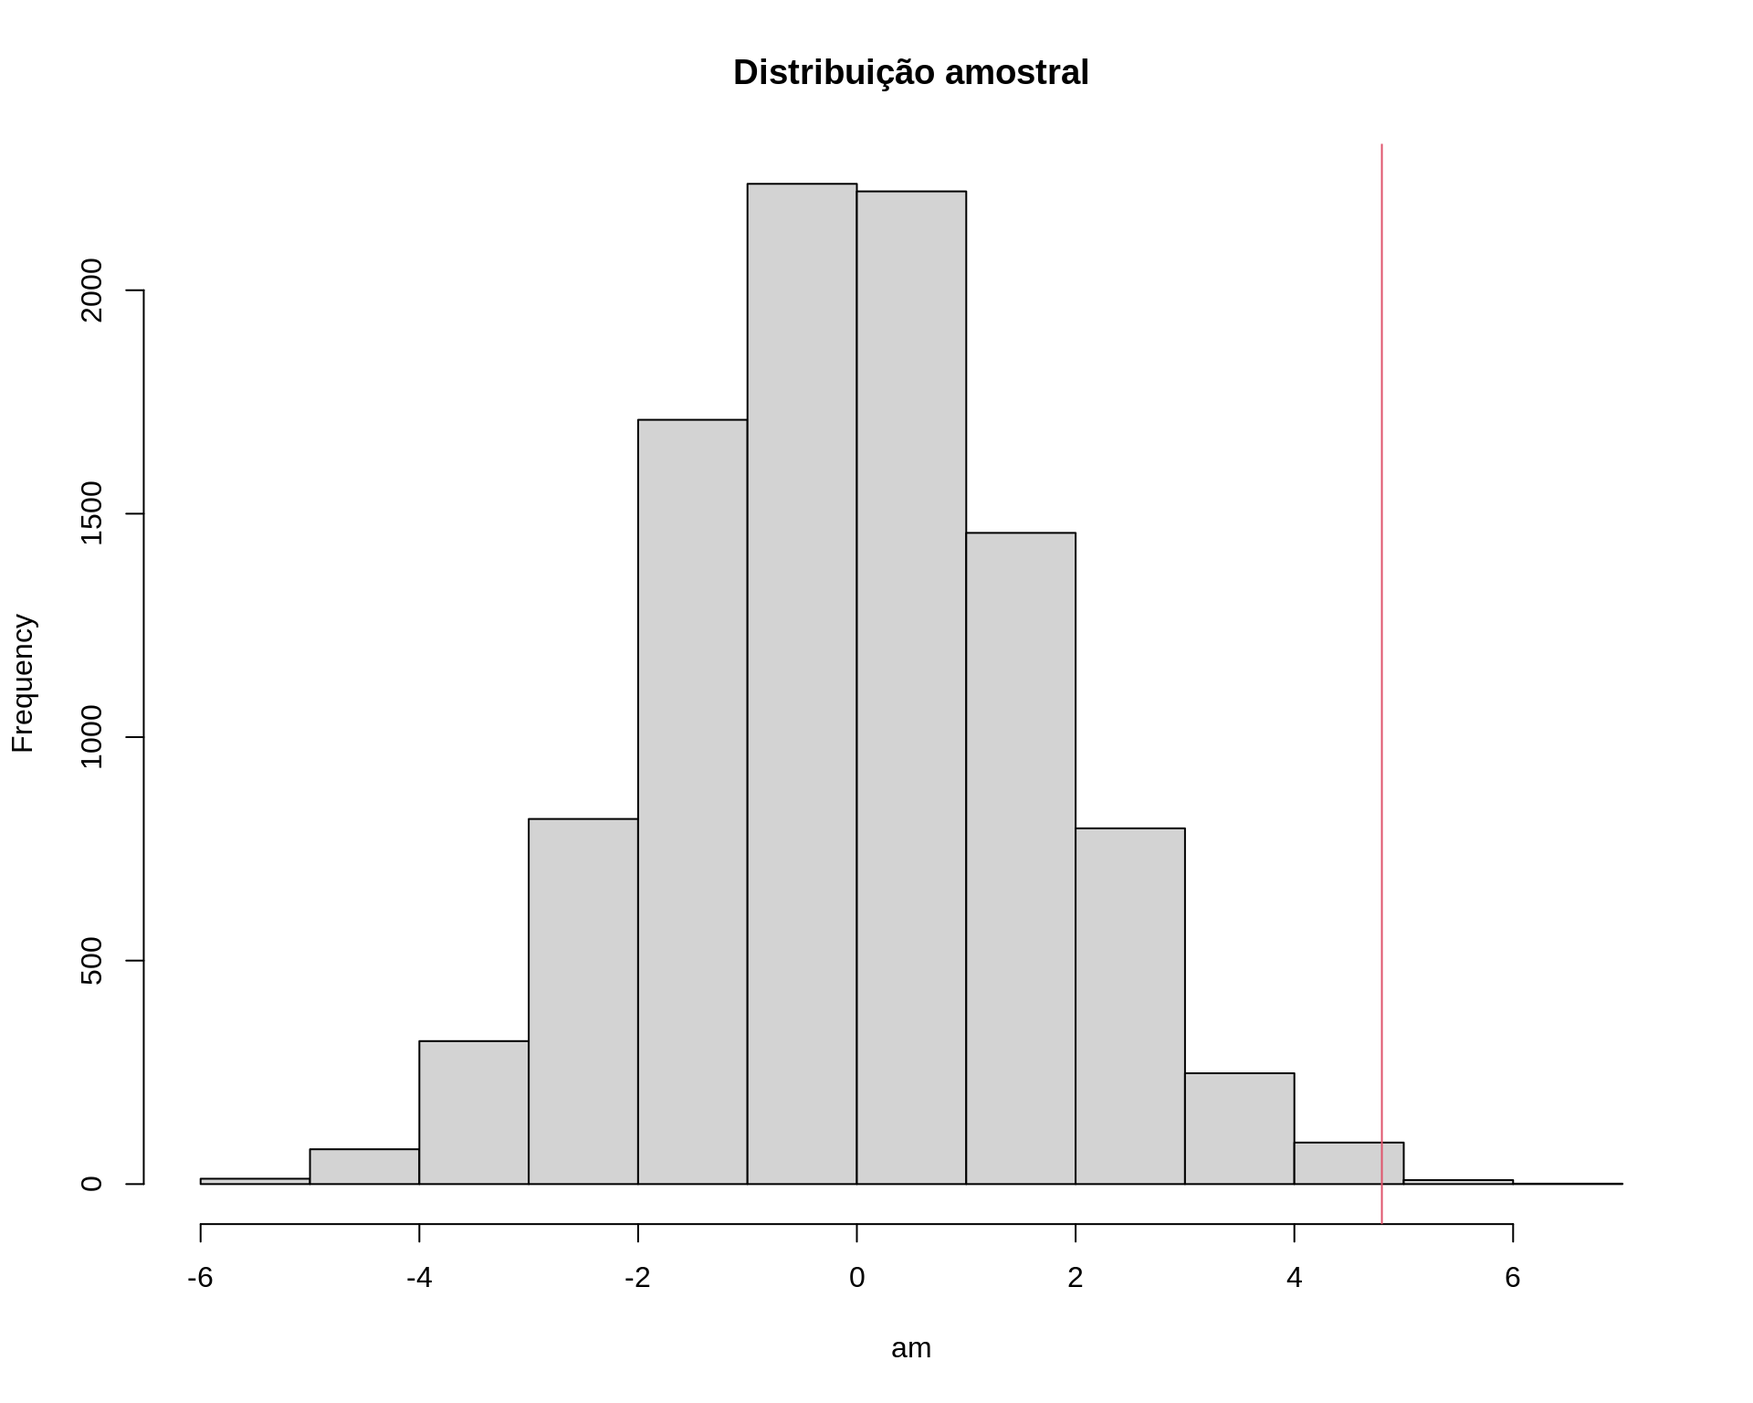
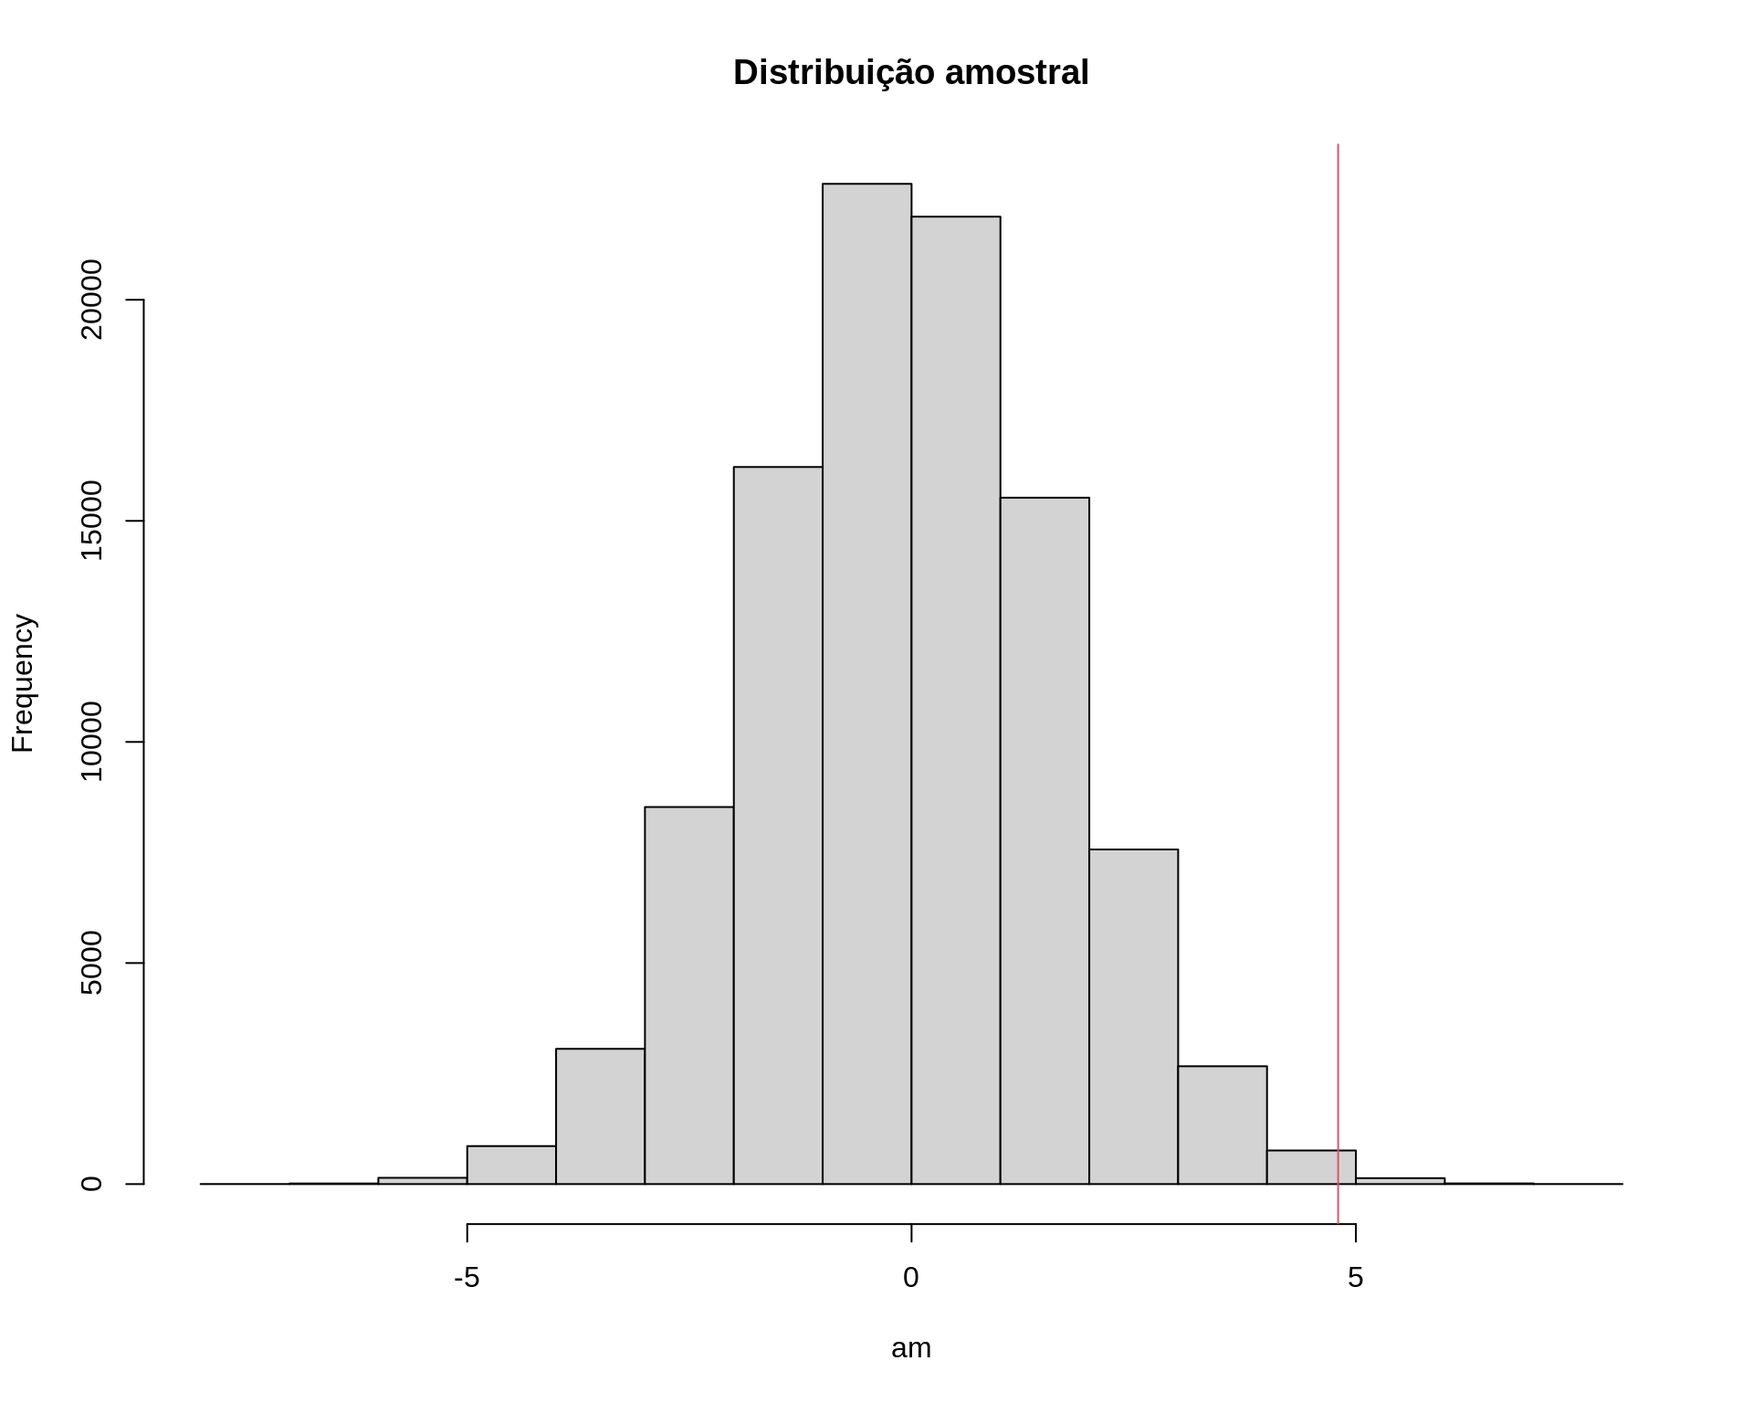
deploy: 6a63a9f9a79bf518cec651b97484bf279a2fdbf0

diff --git a/10_bootstrap.html b/10_bootstrap.html
@@ -566,7 +566,10 @@ t.test(x = machos, y = femeas, alternative = &quot;greater&quot;,
 pt(tcalc, df = n1 + n2 - 2, lower.tail = FALSE)</code></pre>
 <pre><code># [1] 0.001323634</code></pre>
 <pre class="r"><code>## Teste por simulação via Bootstrap
-N &lt;- 10000
+N &lt;- 1e5 # NOTE o aumento no número de simulações
+## Simula direto da distribuição amostral
+library(future.apply) # para um replicate mais eficiente (em paralelo)
+plan(multicore, workers = 4)
 ## Se a hipótese nula é verdadeira, então o comprimento das mandíbulas
 ## de machos e fêmeas são provenientes da mesma poplação, e portanto
 ## podem ser pensados como uma única amostra.
@@ -574,7 +577,7 @@ amostra &lt;- c(machos, femeas)
 ## Amostra COM REPOSIÇÃO os 20 valores, e atribui aleatoriamente 10 para
 ## cada grupo (macho ou fêmea). Se forem de fato da mesma população,
 ## então as diferenças entre as médias devem ser próximas de zero.
-am &lt;- replicate(
+am &lt;- future_replicate(
     N, diff(tapply(sample(amostra, replace = TRUE), da$sexo, mean))
 )
 ## Visualização
@@ -583,7 +586,7 @@ abline(v = med.amostral, col = 2)</code></pre>
 <p><img src="figures/10_bootstrap/unnamed-chunk-3-2.png" width="80%" style="display: block; margin: auto;" /></p>
 <pre class="r"><code>## p-valor empírico
 sum(am &gt;= med.amostral)/N</code></pre>
-<pre><code># [1] 0.0025</code></pre>
+<pre><code># [1] 0.00228</code></pre>
 </div>
 <div id="uma-nota-de-precaução" class="section level3 unnumbered">
 <h3>Uma nota de precaução</h3>
@@ -604,20 +607,20 @@ am &lt;- sample(x, replace = TRUE)
 prop.table(table(am))</code></pre>
 <pre><code># am
 #   1   2   4   5 
-# 0.1 0.3 0.5 0.1</code></pre>
+# 0.1 0.5 0.3 0.1</code></pre>
 <pre class="r"><code>cumsum(prop.table(table(am)))</code></pre>
 <pre><code>#   1   2   4   5 
-# 0.1 0.4 0.9 1.0</code></pre>
+# 0.1 0.6 0.9 1.0</code></pre>
 <pre class="r"><code>## B passos
-B &lt;- 1000
+B &lt;- 1e4
 am &lt;- sample(x, size = B, replace = TRUE)
 prop.table(table(am))</code></pre>
 <pre><code># am
-#     1     2     3     4     5 
-# 0.308 0.303 0.084 0.206 0.099</code></pre>
+#      1      2      3      4      5 
+# 0.2989 0.3035 0.0938 0.2096 0.0942</code></pre>
 <pre class="r"><code>cumsum(prop.table(table(am)))</code></pre>
-<pre><code>#     1     2     3     4     5 
-# 0.308 0.611 0.695 0.901 1.000</code></pre>
+<pre><code>#      1      2      3      4      5 
+# 0.2989 0.6024 0.6962 0.9058 1.0000</code></pre>
 <pre class="r"><code>## Qual o problema então?
 ## Distribuição empírica
 plot(0:5, c(0, prop.table(table(am))), type = &quot;h&quot;)
@@ -655,7 +658,7 @@ str(law82)</code></pre>
 <pre class="r"><code>cor(law82$LSAT, law82$GPA)</code></pre>
 <pre><code># [1] 0.7599979</code></pre>
 <pre class="r"><code>## Definições
-B &lt;- 200
+B &lt;- 2000
 n &lt;- nrow(law)
 R &lt;- numeric(B)
 
@@ -669,11 +672,14 @@ for (b in 1:B) {
 
 ## Resultado
 mean(R)</code></pre>
-<pre><code># [1] 0.7722927</code></pre>
+<pre><code># [1] 0.7709778</code></pre>
 <pre class="r"><code>(se.R &lt;- sd(R))</code></pre>
-<pre><code># [1] 0.132016</code></pre>
+<pre><code># [1] 0.1368193</code></pre>
 <pre class="r"><code>hist(R)</code></pre>
 <p><img src="figures/10_bootstrap/unnamed-chunk-5-3.png" width="80%" style="display: block; margin: auto;" /></p>
+<pre class="r"><code>## Viẽs
+mean(R) - cor(law$LSAT, law$GPA)</code></pre>
+<pre><code># [1] -0.005396721</code></pre>
 <pre class="r"><code>## Usando a função boot::boot()
 
 ## Define a função que calcula a estatística de interesse
@@ -700,19 +706,19 @@ obj</code></pre>
 # 
 # Bootstrap Statistics :
 #      original       bias    std. error
-# t1* 0.7763745 -0.004350115   0.1331296</code></pre>
+# t1* 0.7763745 -0.001896919   0.1359209</code></pre>
 <pre class="r"><code>str(obj)</code></pre>
 <pre><code># List of 11
 #  $ t0       : num 0.776
-#  $ t        : num [1:2000, 1] 0.926 0.698 0.642 0.586 0.8 ...
+#  $ t        : num [1:2000, 1] 0.848 0.801 0.763 0.855 0.75 ...
 #  $ R        : num 2000
 #  $ data     :&#39;data.frame&#39;:    15 obs. of  2 variables:
 #   ..$ LSAT: num [1:15] 576 635 558 578 666 580 555 661 651 605 ...
 #   ..$ GPA : num [1:15] 3.39 3.3 2.81 3.03 3.44 3.07 3 3.43 3.36 3.13 ...
-#  $ seed     : int [1:626] 10403 432 1781087344 386800285 1300146352 -1043896737 -961725389 1610237524 1487280467 -2089005861 ...
+#  $ seed     : int [1:626] 10403 67 374337935 -66916328 796352990 -1344538218 7326455 801261936 -841320945 1823181309 ...
 #  $ statistic:function (x, i)  
 #   ..- attr(*, &quot;srcref&quot;)= &#39;srcref&#39; int [1:8] 4 6 6 1 6 1 4 6
-#   .. ..- attr(*, &quot;srcfile&quot;)=Classes &#39;srcfilecopy&#39;, &#39;srcfile&#39; &lt;environment: 0x55f65203bc40&gt; 
+#   .. ..- attr(*, &quot;srcfile&quot;)=Classes &#39;srcfilecopy&#39;, &#39;srcfile&#39; &lt;environment: 0x55a56d026020&gt; 
 #  $ sim      : chr &quot;ordinary&quot;
 #  $ call     : language boot(data = law, statistic = r, R = 2000)
 #  $ stype    : chr &quot;i&quot;
@@ -725,9 +731,12 @@ obj</code></pre>
 <pre class="r"><code>## Acessa os valores calculados
 y &lt;- as.vector(obj$t)
 mean(y)</code></pre>
-<pre><code># [1] 0.7720244</code></pre>
+<pre><code># [1] 0.7744776</code></pre>
 <pre class="r"><code>sd(y)</code></pre>
-<pre><code># [1] 0.1331296</code></pre>
+<pre><code># [1] 0.1359209</code></pre>
+<pre class="r"><code>## Viẽs
+mean(y) - cor(law$LSAT, law$GPA)</code></pre>
+<pre><code># [1] -0.001896919</code></pre>
 <pre class="r"><code>## Usando a função bootstrap::bootstrap()
 
 ## Define a função que calcula a estatística
@@ -738,10 +747,20 @@ r &lt;- function(x, xdata) {
 ## Procedimento
 n &lt;- nrow(law)
 obj2 &lt;- bootstrap(x = 1:n, nboot = 2000, theta = r, law)
-mean(obj2$thetastar)</code></pre>
-<pre><code># [1] 0.7729704</code></pre>
+str(obj2)</code></pre>
+<pre><code># List of 5
+#  $ thetastar     : num [1:2000] 0.689 0.545 0.775 0.719 0.614 ...
+#  $ func.thetastar: NULL
+#  $ jack.boot.val : NULL
+#  $ jack.boot.se  : NULL
+#  $ call          : language bootstrap(x = 1:n, nboot = 2000, theta = r, law)</code></pre>
+<pre class="r"><code>mean(obj2$thetastar)</code></pre>
+<pre><code># [1] 0.7691919</code></pre>
 <pre class="r"><code>sd(obj2$thetastar)</code></pre>
-<pre><code># [1] 0.1341259</code></pre>
+<pre><code># [1] 0.1344538</code></pre>
+<pre class="r"><code>## Viẽs
+mean(obj2$thetastar) - cor(law$LSAT, law$GPA)</code></pre>
+<pre><code># [1] -0.007182551</code></pre>
 </div>
 <div id="estimativa-do-viés-via-bootstrap" class="section level1">
 <h1><span class="header-section-number">3</span> Estimativa do viés via bootstrap</h1>
@@ -778,7 +797,7 @@ for (b in 1:B) {
 
 ## Viés
 mean(theta.b) - theta.hat</code></pre>
-<pre><code># [1] -0.003264248</code></pre>
+<pre><code># [1] -0.0004970639</code></pre>
 </div>
 <div id="intervalos-de-confiança-via-bootstrap" class="section level1">
 <h1><span class="header-section-number">4</span> Intervalos de confiança via Bootstrap</h1>
@@ -827,7 +846,7 @@ Z = \frac{\hat{\theta} - \text{E}[\hat{\theta}]}{se(\hat{\theta})}
 <li>Suponha que <span class="math inline">\(\hat{\theta}^{(1)}, \ldots, \hat{\theta}^{B}\)</span> são as estimativas de bootstrap de <span class="math inline">\(\hat{\theta}\)</span></li>
 <li>A partir da distribuição empírica das estimativas, determine os quantis <span class="math inline">\(\alpha/2\)</span> e <span class="math inline">\(1-\alpha/2\)</span> de <span class="math inline">\(\hat{\theta}\)</span></li>
 <li>Portanto o intervalo percentil de bootstrap <span class="math inline">\(100(1-\alpha)\%\)</span> é <span class="math display">\[
-(\hat{\theta}_{\alpha/2}, \hat{\theta}_{1-\alpha/2})
+(\hat{\theta}_{\alpha/2}^{\star}, \hat{\theta}_{1-\alpha/2}^{\star})
 \]</span></li>
 <li>Pode-se mostrar que o intervalo percentil de bootstrap possui vantagens teóricas e maior taxa de cobertura, quando comparado aos intervalos normal e básico</li>
 <li>A função <code>boot::boot.ci()</code> calcula estes três tipos de intervalos</li>
@@ -853,10 +872,13 @@ boot.obj</code></pre>
 # 
 # Bootstrap Statistics :
 #      original       bias    std. error
-# t1* 0.7763745 -0.002348834   0.1330581</code></pre>
+# t1* 0.7763745 -0.008545694   0.1334486</code></pre>
 <pre class="r"><code>## Estatśitica amostral
 boot.obj$t0</code></pre>
 <pre><code># [1] 0.7763745</code></pre>
+<pre class="r"><code>## Viés
+(vies &lt;- mean(boot.obj$t) - boot.obj$t0)</code></pre>
+<pre><code># [1] -0.008545694</code></pre>
 <pre class="r"><code>## Distribuição das estimativas de bootstrap
 plot(boot.obj)</code></pre>
 <p><img src="figures/10_bootstrap/unnamed-chunk-9-1.png" width="80%" style="display: block; margin: auto;" /></p>
@@ -869,7 +891,7 @@ plot(boot.obj)</code></pre>
 # 
 # Intervals : 
 # Level      Normal              Basic              Percentile     
-# 95%   ( 0.5179,  1.0395 )   ( 0.5896,  1.1062 )   ( 0.4465,  0.9631 )  
+# 95%   ( 0.5234,  1.0465 )   ( 0.5859,  1.0971 )   ( 0.4557,  0.9669 )  
 # Calculations and Intervals on Original Scale</code></pre>
 <pre class="r"><code>## Calcule intervalos manualmente
 ## Define intervalo com alpha = 0.05
@@ -879,12 +901,14 @@ alpha &lt;- c(.025, .975)
 (theta.hat &lt;- boot.obj$t0)</code></pre>
 <pre><code># [1] 0.7763745</code></pre>
 <pre class="r"><code>(se.theta &lt;- sd(boot.obj$t))</code></pre>
-<pre><code># [1] 0.1330581</code></pre>
+<pre><code># [1] 0.1334486</code></pre>
 <pre class="r"><code>theta.hat + qnorm(alpha) * se.theta</code></pre>
-<pre><code># [1] 0.5155853 1.0371636</code></pre>
+<pre><code># [1] 0.5148201 1.0379289</code></pre>
 <pre class="r"><code>## Note que é diferente do resultado da função pois a função corrige
 ## pelo viés internamente
-boot.ci(boot.obj, type = &quot;norm&quot;)</code></pre>
+(theta.hat + qnorm(alpha) * se.theta) - vies</code></pre>
+<pre><code># [1] 0.5233658 1.0464746</code></pre>
+<pre class="r"><code>boot.ci(boot.obj, type = &quot;norm&quot;)</code></pre>
 <pre><code># BOOTSTRAP CONFIDENCE INTERVAL CALCULATIONS
 # Based on 2000 bootstrap replicates
 # 
@@ -893,12 +917,12 @@ boot.ci(boot.obj, type = &quot;norm&quot;)</code></pre>
 # 
 # Intervals : 
 # Level      Normal        
-# 95%   ( 0.5179,  1.0395 )  
+# 95%   ( 0.5234,  1.0465 )  
 # Calculations and Intervals on Original Scale</code></pre>
 <pre class="r"><code>## Básico
 2 * theta.hat - quantile(boot.obj$t, probs = rev(alpha), type = 6)</code></pre>
 <pre><code>#     97.5%      2.5% 
-# 0.5896451 1.1062186</code></pre>
+# 0.5858779 1.0970886</code></pre>
 <pre class="r"><code>boot.ci(boot.obj, type = &quot;basic&quot;)</code></pre>
 <pre><code># BOOTSTRAP CONFIDENCE INTERVAL CALCULATIONS
 # Based on 2000 bootstrap replicates
@@ -908,12 +932,12 @@ boot.ci(boot.obj, type = &quot;norm&quot;)</code></pre>
 # 
 # Intervals : 
 # Level      Basic         
-# 95%   ( 0.5896,  1.1062 )  
+# 95%   ( 0.5859,  1.0971 )  
 # Calculations and Intervals on Original Scale</code></pre>
 <pre class="r"><code>## Percentil
 quantile(boot.obj$t, probs = alpha, type = 6)</code></pre>
 <pre><code>#      2.5%     97.5% 
-# 0.4465304 0.9631039</code></pre>
+# 0.4556604 0.9668711</code></pre>
 <pre class="r"><code>boot.ci(boot.obj, type = &quot;perc&quot;)</code></pre>
 <pre><code># BOOTSTRAP CONFIDENCE INTERVAL CALCULATIONS
 # Based on 2000 bootstrap replicates
@@ -923,11 +947,11 @@ quantile(boot.obj$t, probs = alpha, type = 6)</code></pre>
 # 
 # Intervals : 
 # Level     Percentile     
-# 95%   ( 0.4465,  0.9631 )  
+# 95%   ( 0.4557,  0.9669 )  
 # Calculations and Intervals on Original Scale</code></pre>
 <p>Observações:</p>
 <ol style="list-style-type: decimal">
-<li>A função <code>quantile()</code> possui 9 formas diferentes de calcular os quantis, por isso aqui foi escolhido <code>type = 6</code> para ficar mais próximo do que é usado internamente na função <code>boot::boot.ci()</code></li>
+<li>A função <code>quantile()</code> possui 9 formas diferentes de calcular os quantis, por isso aqui foi escolhido <code>type = 6</code> para ficar mais próximo do que é usado internamente na função <code>boot::boot.ci()</code> (veja <code>?quantile</code>)</li>
 <li>O intervalo normal fornecido pela função é corrigido pelo viés (<em>bias corrected</em> ou intervalo BCa)</li>
 <li>A grande diferença entre os limites dos intervalos normal e percentil é que a distribuição amostral da correlação não é normal (veja gráfico acima)
 <ul>
@@ -1026,10 +1050,10 @@ ci &lt;- boot.t.ci(law, statistic = r, B = 2000, R = 200)
 ## Resultados
 ci$CI</code></pre>
 <pre><code>#       2.5%      97.5% 
-# -0.2041483  0.9812997</code></pre>
+# -0.2431553  0.9856186</code></pre>
 <pre class="r"><code>ci$Qt</code></pre>
 <pre><code>#      2.5%     97.5% 
-# -1.569855  7.511420</code></pre>
+# -1.565874  7.629633</code></pre>
 <pre class="r"><code>length(ci$stat)</code></pre>
 <pre><code># [1] 2000</code></pre>
 <pre class="r"><code>length(ci$t.stats)</code></pre>
@@ -1093,11 +1117,11 @@ for (b in 1:B) {
 
 ## Estimativas
 mean(theta.b)</code></pre>
-<pre><code># [1] -0.06407866</code></pre>
+<pre><code># [1] -0.06287142</code></pre>
 <pre class="r"><code>(bias &lt;- mean(theta.b) - theta.hat)</code></pre>
-<pre><code># [1] 0.007227438</code></pre>
+<pre><code># [1] 0.008434677</code></pre>
 <pre class="r"><code>(se &lt;- sd(theta.b))</code></pre>
-<pre><code># [1] 0.1034864</code></pre>
+<pre><code># [1] 0.1011584</code></pre>
 <pre class="r"><code>## Intervalos de confiança para a estimativa
 ## Usando o pacote boot
 theta.boot &lt;- function(dat, ind) {
@@ -1118,8 +1142,8 @@ boot.obj</code></pre>
 # 
 # 
 # Bootstrap Statistics :
-#       original     bias    std. error
-# t1* -0.0713061 0.00984133   0.1030833</code></pre>
+#       original      bias    std. error
+# t1* -0.0713061 0.008436566   0.1025824</code></pre>
 <pre class="r"><code>boot.ci(boot.obj, type = c(&quot;basic&quot;, &quot;norm&quot;, &quot;perc&quot;))</code></pre>
 <pre><code># BOOTSTRAP CONFIDENCE INTERVAL CALCULATIONS
 # Based on 2000 bootstrap replicates
@@ -1129,24 +1153,24 @@ boot.obj</code></pre>
 # 
 # Intervals : 
 # Level      Normal              Basic              Percentile     
-# 95%   (-0.2832,  0.1209 )   (-0.3126,  0.0941 )   (-0.2367,  0.1700 )  
+# 95%   (-0.2808,  0.1213 )   (-0.3045,  0.0914 )   (-0.2340,  0.1619 )  
 # Calculations and Intervals on Original Scale</code></pre>
 <pre class="r"><code>## Intervalo t de bootstrap
 ci &lt;- boot.t.ci(dat, statistic = theta.boot, B = 2000, R = 200)
 ## Resultados
 ci$CI</code></pre>
 <pre><code>#       2.5%      97.5% 
-# -0.2633727  0.4707715</code></pre>
+# -0.2653063  0.4066662</code></pre>
 <pre class="r"><code>ci$Qt</code></pre>
 <pre><code>#      2.5%     97.5% 
-# -5.185837  1.837424</code></pre>
+# -4.627971  1.878408</code></pre>
 <pre class="r"><code>## Distribuições
 par(mfrow = c(1, 2))
 ## Distribuição amostral
 hist(ci$stat)
 ## Distribuição &quot;estudentizada&quot; de referência
 hist(ci$t.stats); abline(v = ci$Qt, col = 2)</code></pre>
-<p><img src="figures/10_bootstrap/unnamed-chunk-13-1.png" width="80%" style="display: block; margin: auto;" /></p>
+<p><img src="figures/10_bootstrap/unnamed-chunk-14-1.png" width="80%" style="display: block; margin: auto;" /></p>
 <pre class="r"><code>par(mfrow = c(1, 1))</code></pre>
 </div>
 </div>

diff --git a/programacao.html b/programacao.html
@@ -778,15 +778,15 @@ st1 &lt;- system.time(
 )
 st1</code></pre>
 <pre><code>#    user  system elapsed 
-#   0.074   0.000   0.075</code></pre>
+#   0.095   0.000   0.095</code></pre>
 <pre class="r"><code>## Tempo de execução usando a regra da reciclagem
 st2 &lt;- system.time(
     y2 &lt;- x^2
 )
 st2</code></pre>
 <pre><code>#    user  system elapsed 
-#   0.002   0.000   0.002</code></pre>
-<p>Olhando o resultado de <code>elapsed</code>, que é o tempo total de execução de uma função medido por <code>system.time()</code>, notamos que usando a regra da reciclagem, o cálculo é aproximadamente 0.075/0.002 = 37.5 vezes mais rápido. Claramente esse é só um exemplo de um cálculo muito simples. Mas em situações mais complexas, a diferença entro o tempo de execução das duas formas pode ser muito maior.</p>
+#   0.003   0.000   0.003</code></pre>
+<p>Olhando o resultado de <code>elapsed</code>, que é o tempo total de execução de uma função medido por <code>system.time()</code>, notamos que usando a regra da reciclagem, o cálculo é aproximadamente 0.095/0.003 = 31.67 vezes mais rápido. Claramente esse é só um exemplo de um cálculo muito simples. Mas em situações mais complexas, a diferença entro o tempo de execução das duas formas pode ser muito maior.</p>
 <div class="panel panel-primary">
 <div class="panel-heading">
 Uma nota de precaução

diff --git a/objetos-classes.html b/objetos-classes.html
@@ -1512,7 +1512,7 @@ class(vec)</code></pre>
 # 
 # function (x, ...) 
 # standardGeneric(&quot;mean&quot;)
-# &lt;environment: 0x55f64fe7da38&gt;
+# &lt;environment: 0x55a566f4e0f0&gt;
 # Methods may be defined for arguments: x
 # Use  showMethods(mean)  for currently available ones.</code></pre>
 <p>Agora veja o código fonte da função <code>mean.default</code>, que é o método específico para vetores numéricos</p>
@@ -1541,7 +1541,7 @@ class(vec)</code></pre>
 #     }
 #     .Internal(mean(x))
 # }
-# &lt;bytecode: 0x55f64b658da0&gt;
+# &lt;bytecode: 0x55a566f95b80&gt;
 # &lt;environment: namespace:base&gt;</code></pre>
 <p>Agora suponha que você ddeseja criar uma função que calcule a média para um objeto de uma classe diferente daquelas previamente definidas. Por exemplo, suponha que você quer que a função <code>mean()</code> retorne a média das linhas de uma matriz.</p>
 <pre class="r"><code>set.seed(1)
@@ -1605,7 +1605,7 @@ class(dl)</code></pre>
 </div>
 <div id="informação-de-sessão" class="section level1">
 <h1><span class="header-section-number">11</span> Informação de Sessão</h1>
-<pre><code># Wednesday, 21 July, 2021, 02:22
+<pre><code># Wednesday, 21 July, 2021, 06:08
 # ----------------------------------------
 # R version 4.1.0 (2021-05-18)
 # Platform: x86_64-pc-linux-gnu (64-bit)

diff --git a/05_RNG_transform.html b/05_RNG_transform.html
@@ -849,9 +849,9 @@ polarmethod(2)</code></pre>
 <p>Comparando os dois métodos vemos que, apesar do método polar não usar funções seno e cosseno, é necessário usar o <code>while()</code>, o que “encarece” o algoritmo computacionalemnte.</p>
 <pre class="r"><code>microbenchmark::microbenchmark(boxmuller(1000), polarmethod(1000))</code></pre>
 <pre><code># Unit: microseconds
-#               expr    min     lq     mean  median      uq    max neval cld
-#    boxmuller(1000)   65.2   67.9   70.934   69.70   72.05   87.5   100  a 
-#  polarmethod(1000) 2748.9 2860.1 3250.369 2919.35 2982.05 9131.2   100   b</code></pre>
+#               expr    min      lq     mean  median      uq    max neval cld
+#    boxmuller(1000)   54.7   71.90   76.075   77.35   83.00  108.6   100  a 
+#  polarmethod(1000) 2319.0 2916.65 3326.639 3044.25 3167.35 8653.9   100   b</code></pre>
 </div>
 <div id="a-função-rnorm" class="section level2">
 <h2><span class="header-section-number">4.4</span> A função <code>rnorm()</code></h2>
